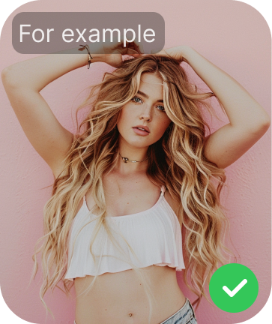
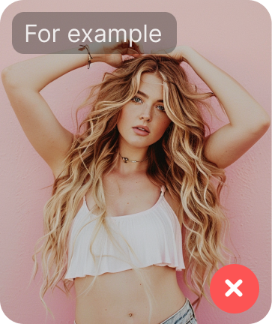
上传图片协议说明文案修改，示例图片修改

diff --git a/lib/languages/language_ru.dart b/lib/languages/language_ru.dart
@@ -179,14 +179,16 @@ class LanguageRu {
       "resolutionNotSupport": "1080p не поддерживает видео длиной 15 или 20 секунд и автоматически переключится на 10 секунд.",
       "generateTips": "Пожалуйста, сначала введите запрос или добавьте изображение.",
       "mediaUploadPolicy": "Политика загрузки медиа",
-      "mediaUploadPolicyDesc1": "Единоразовая покупка для пожизненного использования, неограниченное создание песен, одноразовое подтверждение создания",
-      "mediaUploadPolicyDesc2": "Не загружайте медиа с лицами младше 18 лет или без их согласия",
-      "mediaUploadPolicyDesc3": "Не загружайте насильственный или неприемлемый контент",
-      "mediaUploadPolicyDesc4": "Злоупотребление может привести к блокировке аккаунта без возврата средств",
+      "mediaUploadPolicyDesc": "Пожалуйста, ознакомьтесь и согласитесь с следующим содержанием:",
+      "mediaUploadPolicyDesc1": "Не загружайте медиафайлы с участием лиц младше 18 лет или без их согласия",
+      "mediaUploadPolicyDesc2": "Не загружайте насильственные или неподобающие материалы",
+      "mediaUploadPolicyDesc3": "Убедитесь, что у вас есть права на медиафайлы, которые вы загружаете.",
+      "mediaUploadPolicyDesc4": "Неправомерное использование может привести к блокировке или запрету учетной записи без возврата средств.",
       "agree": "Согласиться",
       "textImage": "Текст и изображение",
       "creditsCalculationRules": "Правила расчёта кредитов",
       "textImageDesc": "Создавайте видео, загружая изображение для его расширения или описывая его текстом. Пишите меньше, чтобы детали заполнялись автоматически, или пишите больше для точного контроля",
+      "illegalImage": "По юридическим причинам, пожалуйста, не загружайте портреты.",
     };
   }
 }

diff --git a/lib/pages/create_page.dart b/lib/pages/create_page.dart
@@ -307,38 +307,48 @@ class _CreatePageState extends State<CreatePage>
   void showUploadPolicyDialog() {
     Get.dialog(DialogContainer(
         bgColor: UiColors.c23242A,
-        child: Column(children: [
-          Text(
-            'mediaUploadPolicy'.tr,
-            style: const TextStyle(
-                color: Colors.white, fontSize: 18, fontWeight: FontWeight.bold),
+        child: Column(crossAxisAlignment: CrossAxisAlignment.start,children: [
+          Center(
+            child: Text(
+              textAlign: TextAlign.center,
+              'mediaUploadPolicy'.tr,
+              style: const TextStyle(
+                  color: Colors.white, fontSize: 18, fontWeight: FontWeight.bold),
+            ),
+          ),
+          Padding(
+            padding: const EdgeInsets.only(top: 24.0),
+            child: Text(
+              'mediaUploadPolicyDesc'.tr,
+              style: const TextStyle(color: UiColors.cDBFFFFFF, fontSize: 12),
+            ),
           ),
           Padding(
             padding: const EdgeInsets.only(top: 24.0),
             child: Text(
               'mediaUploadPolicyDesc1'.tr,
-              style: const TextStyle(color: UiColors.cDBFFFFFF, fontSize: 12),
+              style: const TextStyle(color: UiColors.c99FFFFFF, fontSize: 12),
             ),
           ),
           Padding(
-            padding: const EdgeInsets.only(top: 24.0),
+            padding: const EdgeInsets.only(top: 12.0),
             child: Text(
               'mediaUploadPolicyDesc2'.tr,
-              style: const TextStyle(color: UiColors.cDBFFFFFF, fontSize: 12),
+              style: const TextStyle(color: UiColors.c99FFFFFF, fontSize: 12),
             ),
           ),
           Padding(
-            padding: const EdgeInsets.only(top: 24.0),
+            padding: const EdgeInsets.only(top: 12.0),
             child: Text(
               'mediaUploadPolicyDesc3'.tr,
-              style: const TextStyle(color: UiColors.cDBFFFFFF, fontSize: 12),
+              style: const TextStyle(color: UiColors.c99FFFFFF, fontSize: 12),
             ),
           ),
           Padding(
-            padding: const EdgeInsets.only(top: 24.0),
+            padding: const EdgeInsets.only(top: 12.0),
             child: Text(
               'mediaUploadPolicyDesc4'.tr,
-              style: const TextStyle(color: UiColors.cDBFFFFFF, fontSize: 12),
+              style: const TextStyle(color: UiColors.c99FFFFFF, fontSize: 12),
             ),
           ),
           Padding(

diff --git a/lib/languages/language_ar.dart b/lib/languages/language_ar.dart
@@ -179,14 +179,16 @@ class LanguageAr {
       "resolutionNotSupport": "لا يدعم 1080p فيديوهات مدتها 15 ثانية أو 20 ثانية وسيتم التبديل تلقائيًا إلى 10 ثوانٍ.",
       "generateTips": "يرجى إدخال طلب أو إضافة صورة أولاً.",
       "mediaUploadPolicy": "سياسة تحميل الوسائط",
-      "mediaUploadPolicyDesc1": "شراء لمرة واحدة للاستخدام مدى الحياة، إنشاء أغاني غير محدود، إثبات الإنشاء لمرة واحدة",
-      "mediaUploadPolicyDesc2": "لا تقم بتحميل وسائط لأشخاص أقل من 18 عامًا أو دون موافقتهم",
-      "mediaUploadPolicyDesc3": "لا تقم بتحميل محتوى عنيف أو غير لائق",
-      "mediaUploadPolicyDesc4": "قد يؤدي سوء الاستخدام إلى تعليق الحساب أو الحظر دون استرداد",
+      "mediaUploadPolicyDesc": "يرجى مراجعة والموافقة على المحتوى التالي:",
+      "mediaUploadPolicyDesc1": "يرجى عدم تحميل وسائط لأفراد تحت سن 18 أو بدون موافقتهم",
+      "mediaUploadPolicyDesc2": "يرجى عدم تحميل محتوى عنيف أو غير لائق",
+      "mediaUploadPolicyDesc3": "تأكد من أنك تملك حقوق الوسائط التي تقوم بتحميلها.",
+      "mediaUploadPolicyDesc4": "الاستخدام غير السليم قد يؤدي إلى تعليق الحساب أو حظره بدون استرداد الأموال.",
       "agree": "موافق",
       "textImage": "نص وصورة",
       "creditsCalculationRules": "قواعد حساب الأرصدة",
       "textImageDesc": "قم بإنشاء فيديو عن طريق تحميل صورة لتوسيعها، أو وصفها بنص. اكتب القليل لترك التفاصيل لتُكمل، أو اكتب المزيد للحصول على تحكم دقيق",
+      "illegalImage": "لأسباب قانونية، يُرجى عدم تحميل الصور الشخصية.",
     };
   }
 }

diff --git a/lib/languages/language_ja.dart b/lib/languages/language_ja.dart
@@ -179,14 +179,16 @@ class LanguageJa {
       "resolutionNotSupport": "1080pは15秒または20秒の動画をサポートしていませんので、自動的に10秒に切り替わります。",
       "generateTips": "最初にプロンプトを入力するか、画像を追加してください。",
       "mediaUploadPolicy": "メディアアップロードポリシー",
-      "mediaUploadPolicyDesc1": "一度購入すれば一生使えます。無制限の曲生成、1回の作成証明",
-      "mediaUploadPolicyDesc2": "18歳未満または同意のない個人のメディアをアップロードしないでください",
-      "mediaUploadPolicyDesc3": "暴力的または不適切なコンテンツをアップロードしないでください",
-      "mediaUploadPolicyDesc4": "不正利用の場合、アカウントが停止または禁止され、返金されない可能性があります",
+      "mediaUploadPolicyDesc": "以下の内容を確認し、同意してください：",
+      "mediaUploadPolicyDesc1": "18歳未満の個人や同意なしのメディアのアップロードはしないでください",
+      "mediaUploadPolicyDesc2": "暴力的または不適切なコンテンツをアップロードしないでください",
+      "mediaUploadPolicyDesc3": "アップロードするメディアに対する権利を所有していることを確認してください。",
+      "mediaUploadPolicyDesc4": "不正利用はアカウントの停止や禁止を引き起こし、返金は行われません。",
       "agree": "同意する",
       "textImage": "テキストと画像",
       "creditsCalculationRules": "クレジット計算ルール",
       "textImageDesc": "画像をアップロードして拡張するか、テキストで説明して動画を作成します。少ない言葉で詳細を自動補完するか、詳細を書いて正確にコントロールすることができます",
+      "illegalImage": "法的な理由により、ポートレートをアップロードしないでください。",
     };
   }
 }

diff --git a/lib/languages/language_de.dart b/lib/languages/language_de.dart
@@ -178,15 +178,17 @@ class LanguageDe {
       "durationNotSupport": "1080p unterstützt keine Videos mit 15 oder 20 Sekunden.",
       "resolutionNotSupport": "1080p unterstützt keine Videos mit 15 oder 20 Sekunden und wird automatisch auf 10 Sekunden umgestellt.",
       "generateTips": "Bitte geben Sie zuerst eine Eingabeaufforderung ein oder fügen Sie ein Bild hinzu.",
-      "mediaUploadPolicy": "Richtlinie für Medien-Uploads",
-      "mediaUploadPolicyDesc1": "Einmaliger Kauf für lebenslangen Gebrauch, unbegrenzte Song-Erstellung, einmaliger Nachweis der Erstellung",
-      "mediaUploadPolicyDesc2": "Laden Sie keine Medien von Personen unter 18 Jahren oder ohne deren Zustimmung hoch",
-      "mediaUploadPolicyDesc3": "Laden Sie keine gewalttätigen oder unangemessenen Inhalte hoch",
-      "mediaUploadPolicyDesc4": "Missbrauch kann zu Kontosperrung oder -bann ohne Rückerstattung führen",
+      "mediaUploadPolicy": "Medien-Upload-Richtlinie",
+      "mediaUploadPolicyDesc": "Bitte überprüfen Sie und stimmen Sie dem folgenden Inhalt zu:",
+      "mediaUploadPolicyDesc1": "Laden Sie keine Medien von Personen unter 18 Jahren oder ohne deren Zustimmung hoch",
+      "mediaUploadPolicyDesc2": "Laden Sie keine gewalttätigen oder unangemessenen Inhalte hoch",
+      "mediaUploadPolicyDesc3": "Stellen Sie sicher, dass Sie die Rechte an den von Ihnen hochgeladenen Medien besitzen.",
+      "mediaUploadPolicyDesc4": "Missbrauch kann zur Sperrung oder Kündigung des Kontos ohne Rückerstattung führen.",
       "agree": "Zustimmen",
       "textImage": "Text & Bild",
       "creditsCalculationRules": "Kreditberechnungsregeln",
       "textImageDesc": "Erstellen Sie ein Video, indem Sie ein Bild hochladen, um es zu erweitern, oder es mit Text beschreiben. Schreiben Sie weniger, um Details zu ergänzen, oder schreiben Sie mehr für eine präzise Steuerung",
+      "illegalImage": "Aus rechtlichen Gründen laden Sie bitte keine Porträts hoch.",
     };
   }
 }

diff --git a/lib/languages/language_id.dart b/lib/languages/language_id.dart
@@ -178,15 +178,17 @@ class LanguageId {
       "durationNotSupport": "1080p tidak mendukung video berdurasi 15 atau 20 detik.",
       "resolutionNotSupport": "1080p tidak mendukung video berdurasi 15 atau 20 detik dan akan otomatis beralih ke 10 detik.",
       "generateTips": "Silakan masukkan prompt atau tambahkan gambar terlebih dahulu.",
-      "mediaUploadPolicy": "Kebijakan Pengunggahan Media",
-      "mediaUploadPolicyDesc1": "Pembelian satu kali untuk penggunaan seumur hidup, generasi lagu tanpa batas, bukti kreasi satu kali",
-      "mediaUploadPolicyDesc2": "Jangan unggah media individu di bawah 18 tahun atau tanpa persetujuan",
-      "mediaUploadPolicyDesc3": "Jangan unggah konten kekerasan atau tidak pantas",
-      "mediaUploadPolicyDesc4": "Penyalahgunaan dapat mengakibatkan penangguhan atau pelarangan akun tanpa pengembalian dana",
+      "mediaUploadPolicy": "Kebijakan Unggah Media",
+      "mediaUploadPolicyDesc": "Harap tinjau dan setujui konten berikut:",
+      "mediaUploadPolicyDesc1": "Jangan unggah media individu di bawah 18 tahun atau tanpa persetujuan mereka",
+      "mediaUploadPolicyDesc2": "Jangan unggah konten kekerasan atau tidak pantas",
+      "mediaUploadPolicyDesc3": "Pastikan Anda memiliki hak atas media yang Anda unggah.",
+      "mediaUploadPolicyDesc4": "Penyalahgunaan dapat mengakibatkan penangguhan atau larangan akun tanpa pengembalian dana.",
       "agree": "Setuju",
       "textImage": "Teks dan Gambar",
       "creditsCalculationRules": "Aturan Perhitungan Kredit",
       "textImageDesc": "Buat video dengan mengunggah gambar untuk diperluas atau mendeskripsikannya dengan teks. Tulis sedikit untuk membiarkan detail terisi sendiri atau tulis lebih banyak untuk kontrol yang lebih presisi",
+      "illegalImage": "Untuk alasan hukum, mohon untuk tidak mengunggah potret.",
     };
   }
 }

diff --git a/lib/languages/language_fr.dart b/lib/languages/language_fr.dart
@@ -179,14 +179,16 @@ class LanguageFr {
       "resolutionNotSupport": "1080p ne prend pas en charge les vidéos de 15 ou 20 secondes et passera automatiquement à 10 secondes.",
       "generateTips": "Veuillez d'abord entrer une invite ou ajouter une image.",
       "mediaUploadPolicy": "Politique de téléchargement des médias",
-      "mediaUploadPolicyDesc1": "Achat unique pour une utilisation à vie, génération de chansons illimitée, preuve de création une fois",
-      "mediaUploadPolicyDesc2": "Ne téléchargez pas de médias de personnes de moins de 18 ans ou sans leur consentement",
-      "mediaUploadPolicyDesc3": "Ne téléchargez pas de contenu violent ou inapproprié",
-      "mediaUploadPolicyDesc4": "Tout abus peut entraîner la suspension ou l'interdiction du compte sans remboursement",
+      "mediaUploadPolicyDesc": "Veuillez examiner et accepter le contenu suivant :",
+      "mediaUploadPolicyDesc1": "Ne téléchargez pas de médias de personnes de moins de 18 ans ou sans leur consentement",
+      "mediaUploadPolicyDesc2": "Ne téléchargez pas de contenu violent ou inapproprié",
+      "mediaUploadPolicyDesc3": "Assurez-vous de détenir les droits des médias que vous téléchargez.",
+      "mediaUploadPolicyDesc4": "L'utilisation abusive peut entraîner la suspension ou l'interdiction du compte sans remboursement.",
       "agree": "Accepter",
       "textImage": "Texte et image",
       "creditsCalculationRules": "Règles de calcul des crédits",
       "textImageDesc": "Créez une vidéo en téléchargeant une image pour l'étendre ou en la décrivant avec du texte. Écrivez moins pour laisser les détails se remplir ou écrivez plus pour un contrôle précis",
+      "illegalImage": "Pour des raisons juridiques, veuillez ne pas télécharger de portraits.",
     };
   }
 }

diff --git a/lib/languages/language_ko.dart b/lib/languages/language_ko.dart
@@ -179,14 +179,16 @@ class LanguageKo {
       "resolutionNotSupport": "1080p는 15초 또는 20초 비디오를 지원하지 않으며 자동으로 10초로 전환됩니다.",
       "generateTips": "먼저 프롬프트를 입력하거나 이미지를 추가하세요.",
       "mediaUploadPolicy": "미디어 업로드 정책",
-      "mediaUploadPolicyDesc1": "한 번의 구매로 평생 사용, 무제한 노래 생성, 한 번의 생성 증명",
-      "mediaUploadPolicyDesc2": "18세 미만이거나 동의 없이 개인 미디어를 업로드하지 마십시오",
-      "mediaUploadPolicyDesc3": "폭력적이거나 부적절한 콘텐츠를 업로드하지 마십시오",
-      "mediaUploadPolicyDesc4": "남용 시 환불 없이 계정이 정지되거나 차단될 수 있습니다",
+      "mediaUploadPolicyDesc": "다음 내용을 검토하고 동의해 주세요:",
+      "mediaUploadPolicyDesc1": "18세 이하 또는 동의 없는 개인의 미디어는 업로드하지 마세요.",
+      "mediaUploadPolicyDesc2": "폭력적이거나 부적절한 콘텐츠는 업로드하지 마세요.",
+      "mediaUploadPolicyDesc3": "업로드하는 미디어에 대한 권리가 있음을 확인하세요.",
+      "mediaUploadPolicyDesc4": "악용 시 계정이 정지되거나 금지될 수 있으며 환불은 제공되지 않습니다.",
       "agree": "동의",
       "textImage": "텍스트 및 이미지",
       "creditsCalculationRules": "크레딧 계산 규칙",
       "textImageDesc": "이미지를 업로드하여 확장하거나 텍스트로 설명하여 비디오를 생성하세요. 적게 작성하면 세부사항이 채워지고, 자세히 작성하면 정확하게 제어할 수 있습니다",
+      "illegalImage": "법적 이유로 초상화를 업로드하지 마세요.",
     };
   }
 }

diff --git a/lib/languages/language_tr.dart b/lib/languages/language_tr.dart
@@ -180,14 +180,16 @@ class LanguageTr {
       "resolutionNotSupport": "1080p, 15s veya 20s videoları desteklemiyor ve otomatik olarak 10s'ye geçecektir.",
       "generateTips": "Lütfen önce bir istem girin veya bir resim ekleyin.",
       "mediaUploadPolicy": "Medya Yükleme Politikası",
-      "mediaUploadPolicyDesc1": "Ömür boyu kullanım için tek seferlik satın alma, sınırsız şarkı oluşturma, bir kez oluşturma kanıtı",
-      "mediaUploadPolicyDesc2": "18 yaş altındaki kişilerin veya rızası olmayan kişilerin medyasını yüklemeyin",
-      "mediaUploadPolicyDesc3": "Şiddet içeren veya uygunsuz içerik yüklemeyin",
-      "mediaUploadPolicyDesc4": "Kötüye kullanım, geri ödeme yapılmaksızın hesabın askıya alınması veya yasaklanması ile sonuçlanabilir",
+      "mediaUploadPolicyDesc": "Lütfen aşağıdaki içeriği gözden geçirin ve kabul edin:",
+      "mediaUploadPolicyDesc1": "18 yaş altı veya izinsiz bireylerin medya içeriğini yüklemeyin",
+      "mediaUploadPolicyDesc2": "Şiddet içeren veya uygunsuz içerik yüklemeyin",
+      "mediaUploadPolicyDesc3": "Yüklediğiniz medya içeriğinin haklarına sahip olduğunuzdan emin olun.",
+      "mediaUploadPolicyDesc4": "Kötüye kullanım, hesabınızın askıya alınmasına veya yasaklanmasına yol açabilir ve geri ödeme yapılmaz.",
       "agree": "Kabul Et",
       "textImage": "Metin ve Görsel",
       "creditsCalculationRules": "Kredi Hesaplama Kuralları",
       "textImageDesc": "Bir görüntüyü yükleyerek genişletin veya metinle açıklayarak bir video oluşturun. Detayların doldurulmasına izin vermek için az yazın veya daha kesin bir kontrol için daha fazla yazın",
+      "illegalImage": "Yasal nedenlerden dolayı, lütfen portre yüklemeyin.",
     };
   }
 }

diff --git a/lib/languages/language_it.dart b/lib/languages/language_it.dart
@@ -178,15 +178,17 @@ class LanguageIt {
       "durationNotSupport": "1080p non supporta video di 15 o 20 secondi.",
       "resolutionNotSupport": "1080p non supporta video di 15 o 20 secondi e passerà automaticamente a 10 secondi.",
       "generateTips": "Inserisci un prompt o aggiungi un'immagine prima.",
-      "mediaUploadPolicy": "Politica di caricamento media",
-      "mediaUploadPolicyDesc1": "Acquisto unico per utilizzo a vita, generazione illimitata di canzoni, una prova di creazione",
-      "mediaUploadPolicyDesc2": "Non caricare media di minori di 18 anni o senza consenso",
-      "mediaUploadPolicyDesc3": "Non caricare contenuti violenti o inappropriati",
-      "mediaUploadPolicyDesc4": "Un uso improprio può comportare la sospensione o il ban dell'account senza rimborso",
+      "mediaUploadPolicy": "Politica di caricamento dei media",
+      "mediaUploadPolicyDesc": "Si prega di rivedere e accettare il contenuto seguente:",
+      "mediaUploadPolicyDesc1": "Non caricare media di persone sotto i 18 anni o senza il loro consenso",
+      "mediaUploadPolicyDesc2": "Non caricare contenuti violenti o inappropriati",
+      "mediaUploadPolicyDesc3": "Assicurati di possedere i diritti sui media che carichi.",
+      "mediaUploadPolicyDesc4": "L'abuso può comportare la sospensione o il divieto dell'account senza rimborso.",
       "agree": "Accetto",
       "textImage": "Testo e Immagine",
       "creditsCalculationRules": "Regole di Calcolo dei Crediti",
       "textImageDesc": "Crea un video caricando un'immagine da espandere o descrivendola con del testo. Scrivi poco per lasciare che i dettagli si riempiano automaticamente o scrivi di più per un controllo preciso",
+      "illegalImage": "Per motivi legali, si prega di non caricare ritratti.",
     };
   }
 }

diff --git a/lib/languages/language_pt.dart b/lib/languages/language_pt.dart
@@ -178,15 +178,17 @@ class LanguagePt {
       "durationNotSupport": "1080p não suporta vídeos de 15s ou 20s.",
       "resolutionNotSupport": "1080p não suporta vídeos de 15s ou 20s e mudará automaticamente para 10s.",
       "generateTips": "Por favor, insira um prompt ou adicione uma imagem primeiro.",
-      "mediaUploadPolicy": "Política de Upload de Mídia",
-      "mediaUploadPolicyDesc1": "Compra única para uso vitalício, geração ilimitada de músicas, uma prova de criação",
-      "mediaUploadPolicyDesc2": "Não envie mídia de indivíduos menores de 18 anos ou sem consentimento",
-      "mediaUploadPolicyDesc3": "Não envie conteúdo violento ou inapropriado",
-      "mediaUploadPolicyDesc4": "Abusos podem resultar na suspensão ou banimento da conta sem reembolso",
+      "mediaUploadPolicy": "Política de Carregamento de Mídias",
+      "mediaUploadPolicyDesc": "Por favor, revise e aceite o conteúdo a seguir:",
+      "mediaUploadPolicyDesc1": "Não carregue mídias de pessoas com menos de 18 anos ou sem o consentimento delas",
+      "mediaUploadPolicyDesc2": "Não carregue conteúdo violento ou inadequado",
+      "mediaUploadPolicyDesc3": "Certifique-se de que possui os direitos sobre os meios que carrega.",
+      "mediaUploadPolicyDesc4": "O uso indevido pode resultar na suspensão ou proibição da conta sem reembolso.",
       "agree": "Concordo",
       "textImage": "Texto e Imagem",
       "creditsCalculationRules": "Regras de Cálculo de Créditos",
       "textImageDesc": "Crie um vídeo carregando uma imagem para estendê-la ou descrevendo-a com texto. Escreva menos para deixar os detalhes se preencherem ou escreva mais para controle preciso",
+      "illegalImage": "Por razões legais, por favor, não envie retratos.",
     };
   }
 }

diff --git a/lib/languages/language_es.dart b/lib/languages/language_es.dart
@@ -178,15 +178,17 @@ class LanguageEs {
       "durationNotSupport": "1080p no admite vídeos de 15 o 20 segundos.",
       "resolutionNotSupport": "1080p no admite vídeos de 15 o 20 segundos y cambiará automáticamente a 10 segundos.",
       "generateTips": "Por favor, introduzca un texto o añada una imagen primero.",
-      "mediaUploadPolicy": "Política de carga de medios",
-      "mediaUploadPolicyDesc1": "Compra única para uso de por vida, generación ilimitada de canciones, una prueba de creación",
-      "mediaUploadPolicyDesc2": "No cargue medios de individuos menores de 18 años o sin consentimiento",
-      "mediaUploadPolicyDesc3": "No cargue contenido violento o inapropiado",
-      "mediaUploadPolicyDesc4": "El mal uso puede resultar en la suspensión o prohibición de la cuenta sin reembolso",
+      "mediaUploadPolicy": "Política de Carga de Medios",
+      "mediaUploadPolicyDesc": "Por favor, revise y acepte el siguiente contenido:",
+      "mediaUploadPolicyDesc1": "No suba medios de personas menores de 18 años o sin su consentimiento",
+      "mediaUploadPolicyDesc2": "No suba contenido violento o inapropiado",
+      "mediaUploadPolicyDesc3": "Asegúrese de poseer los derechos sobre los medios que sube.",
+      "mediaUploadPolicyDesc4": "El mal uso puede resultar en la suspensión o prohibición de la cuenta sin reembolso.",
       "agree": "Aceptar",
       "textImage": "Texto e Imagen",
       "creditsCalculationRules": "Reglas de Cálculo de Créditos",
       "textImageDesc": "Cree un vídeo cargando una imagen para extenderla o describiéndola con texto. Escriba menos para dejar que se completen los detalles o escriba más para un control preciso",
+      "illegalImage": "Por razones legales, por favor no suba retratos.",
     };
   }
 }
